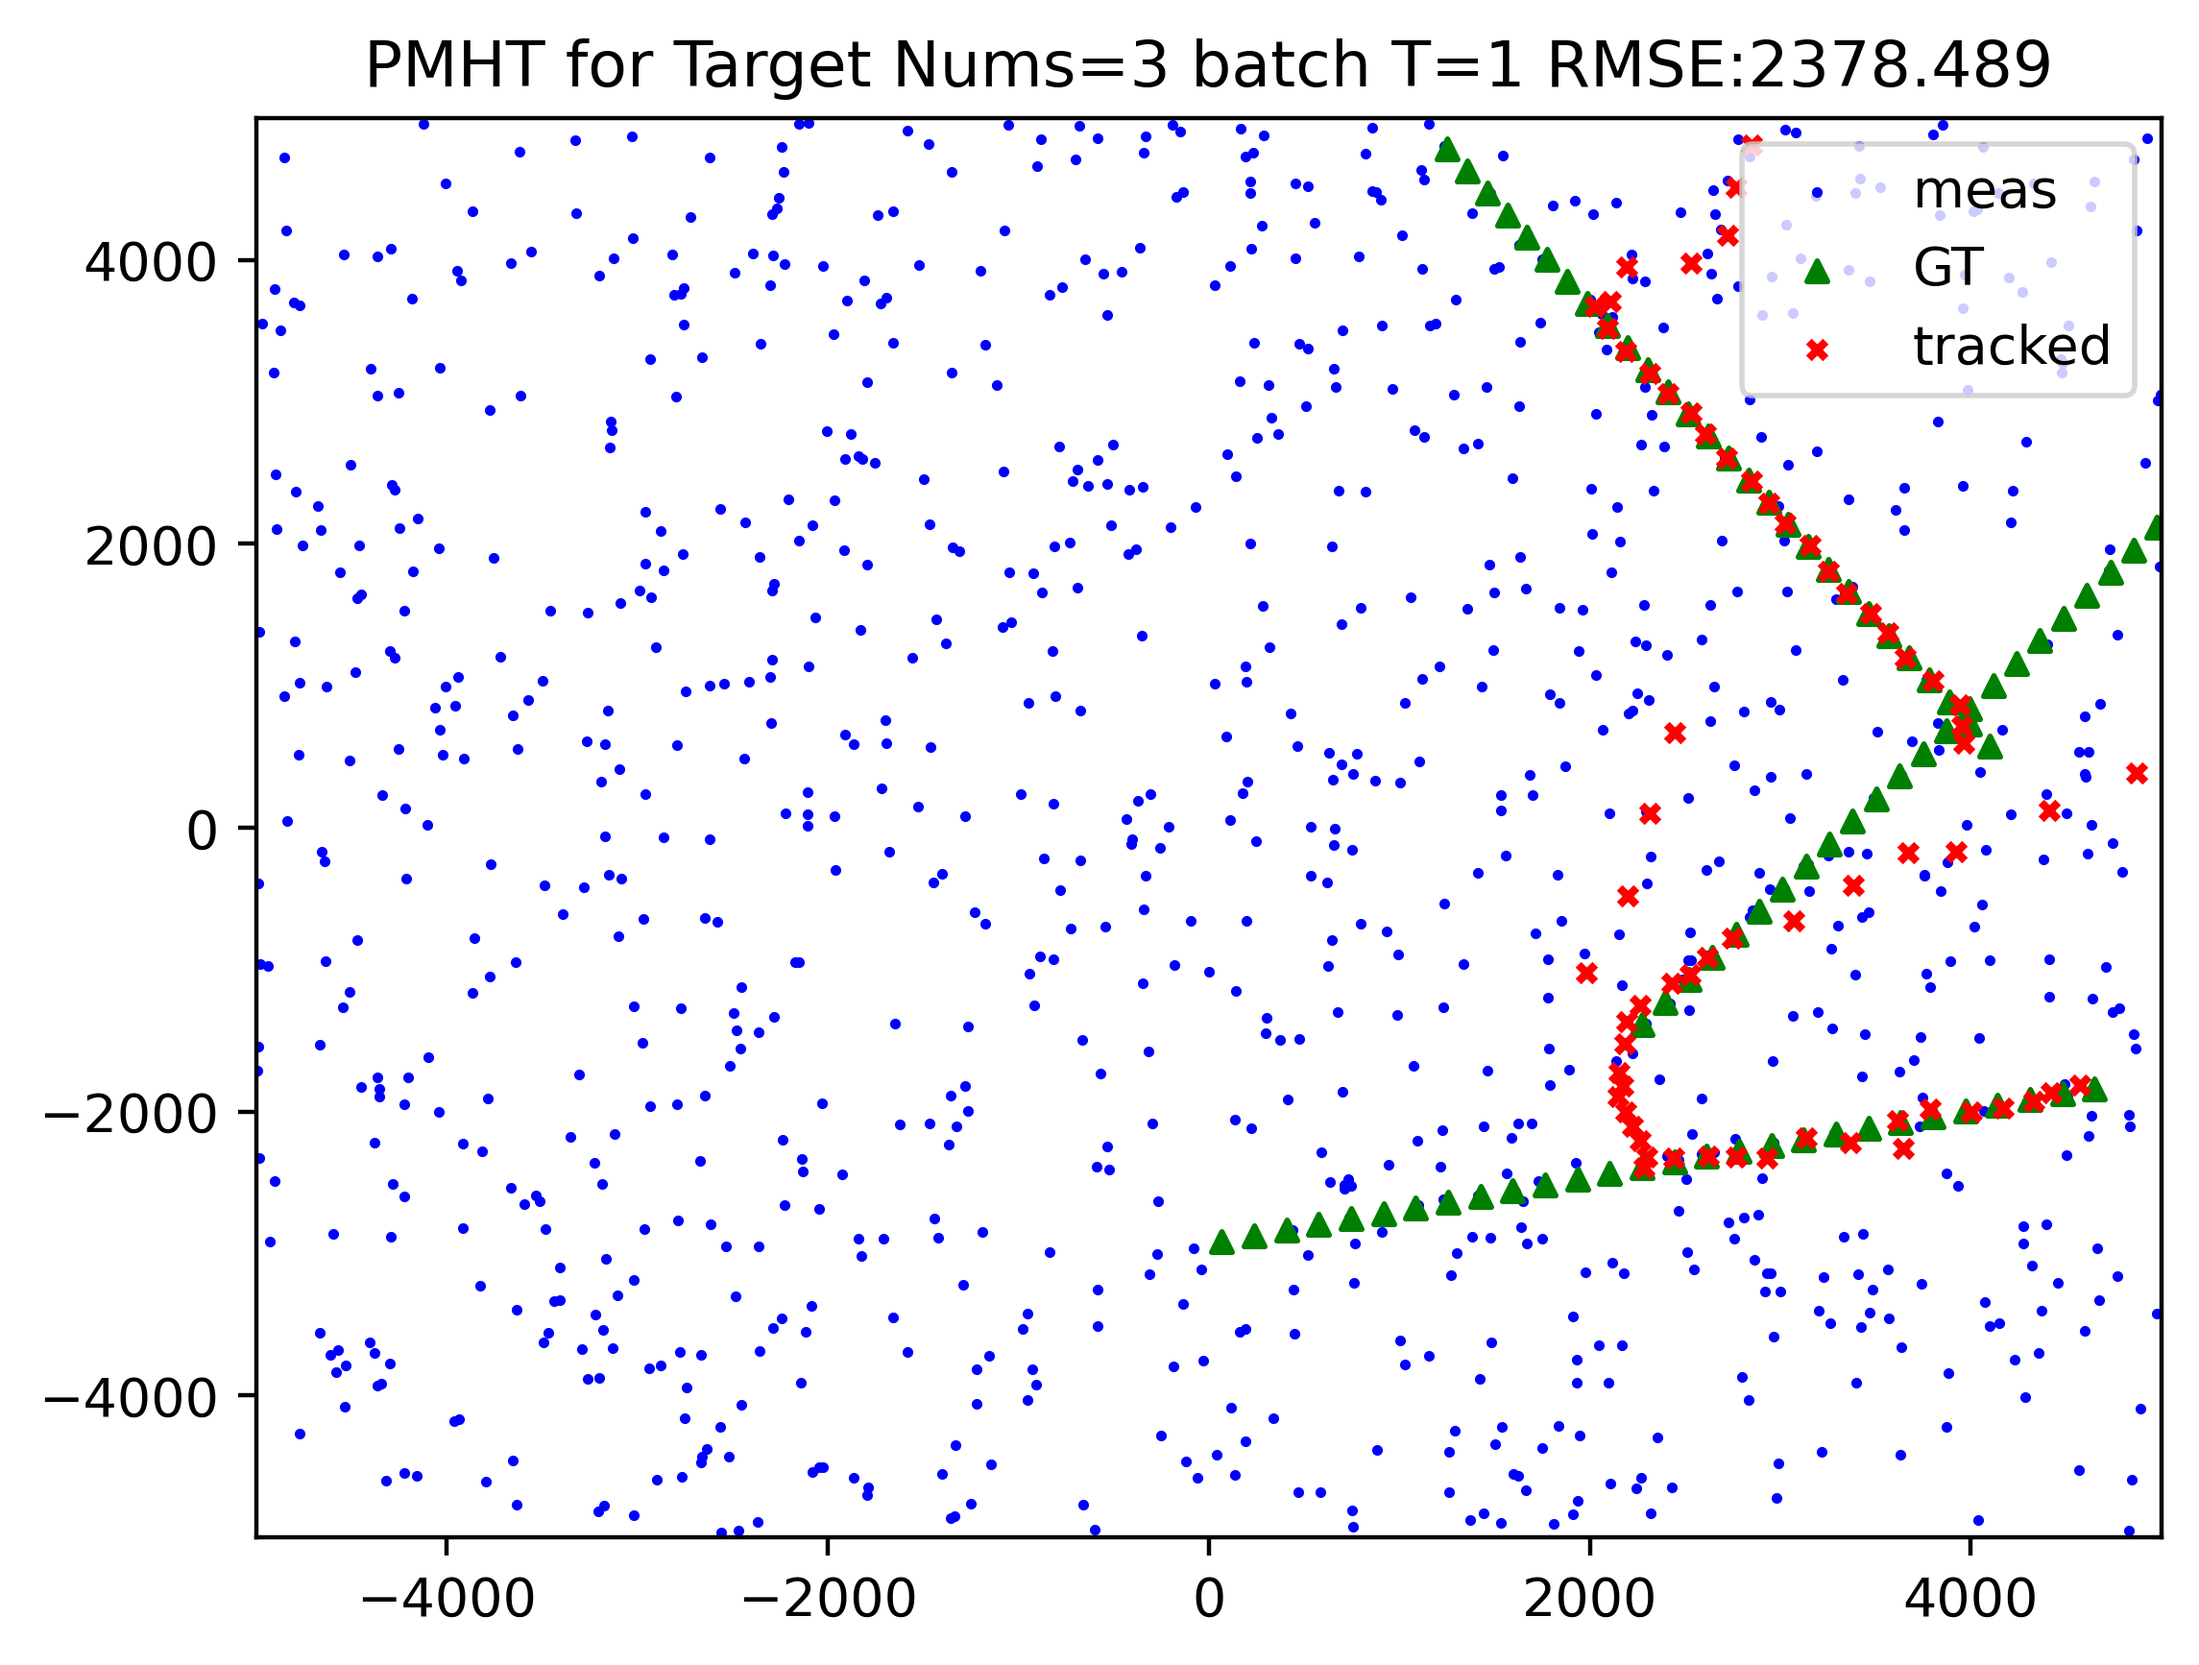
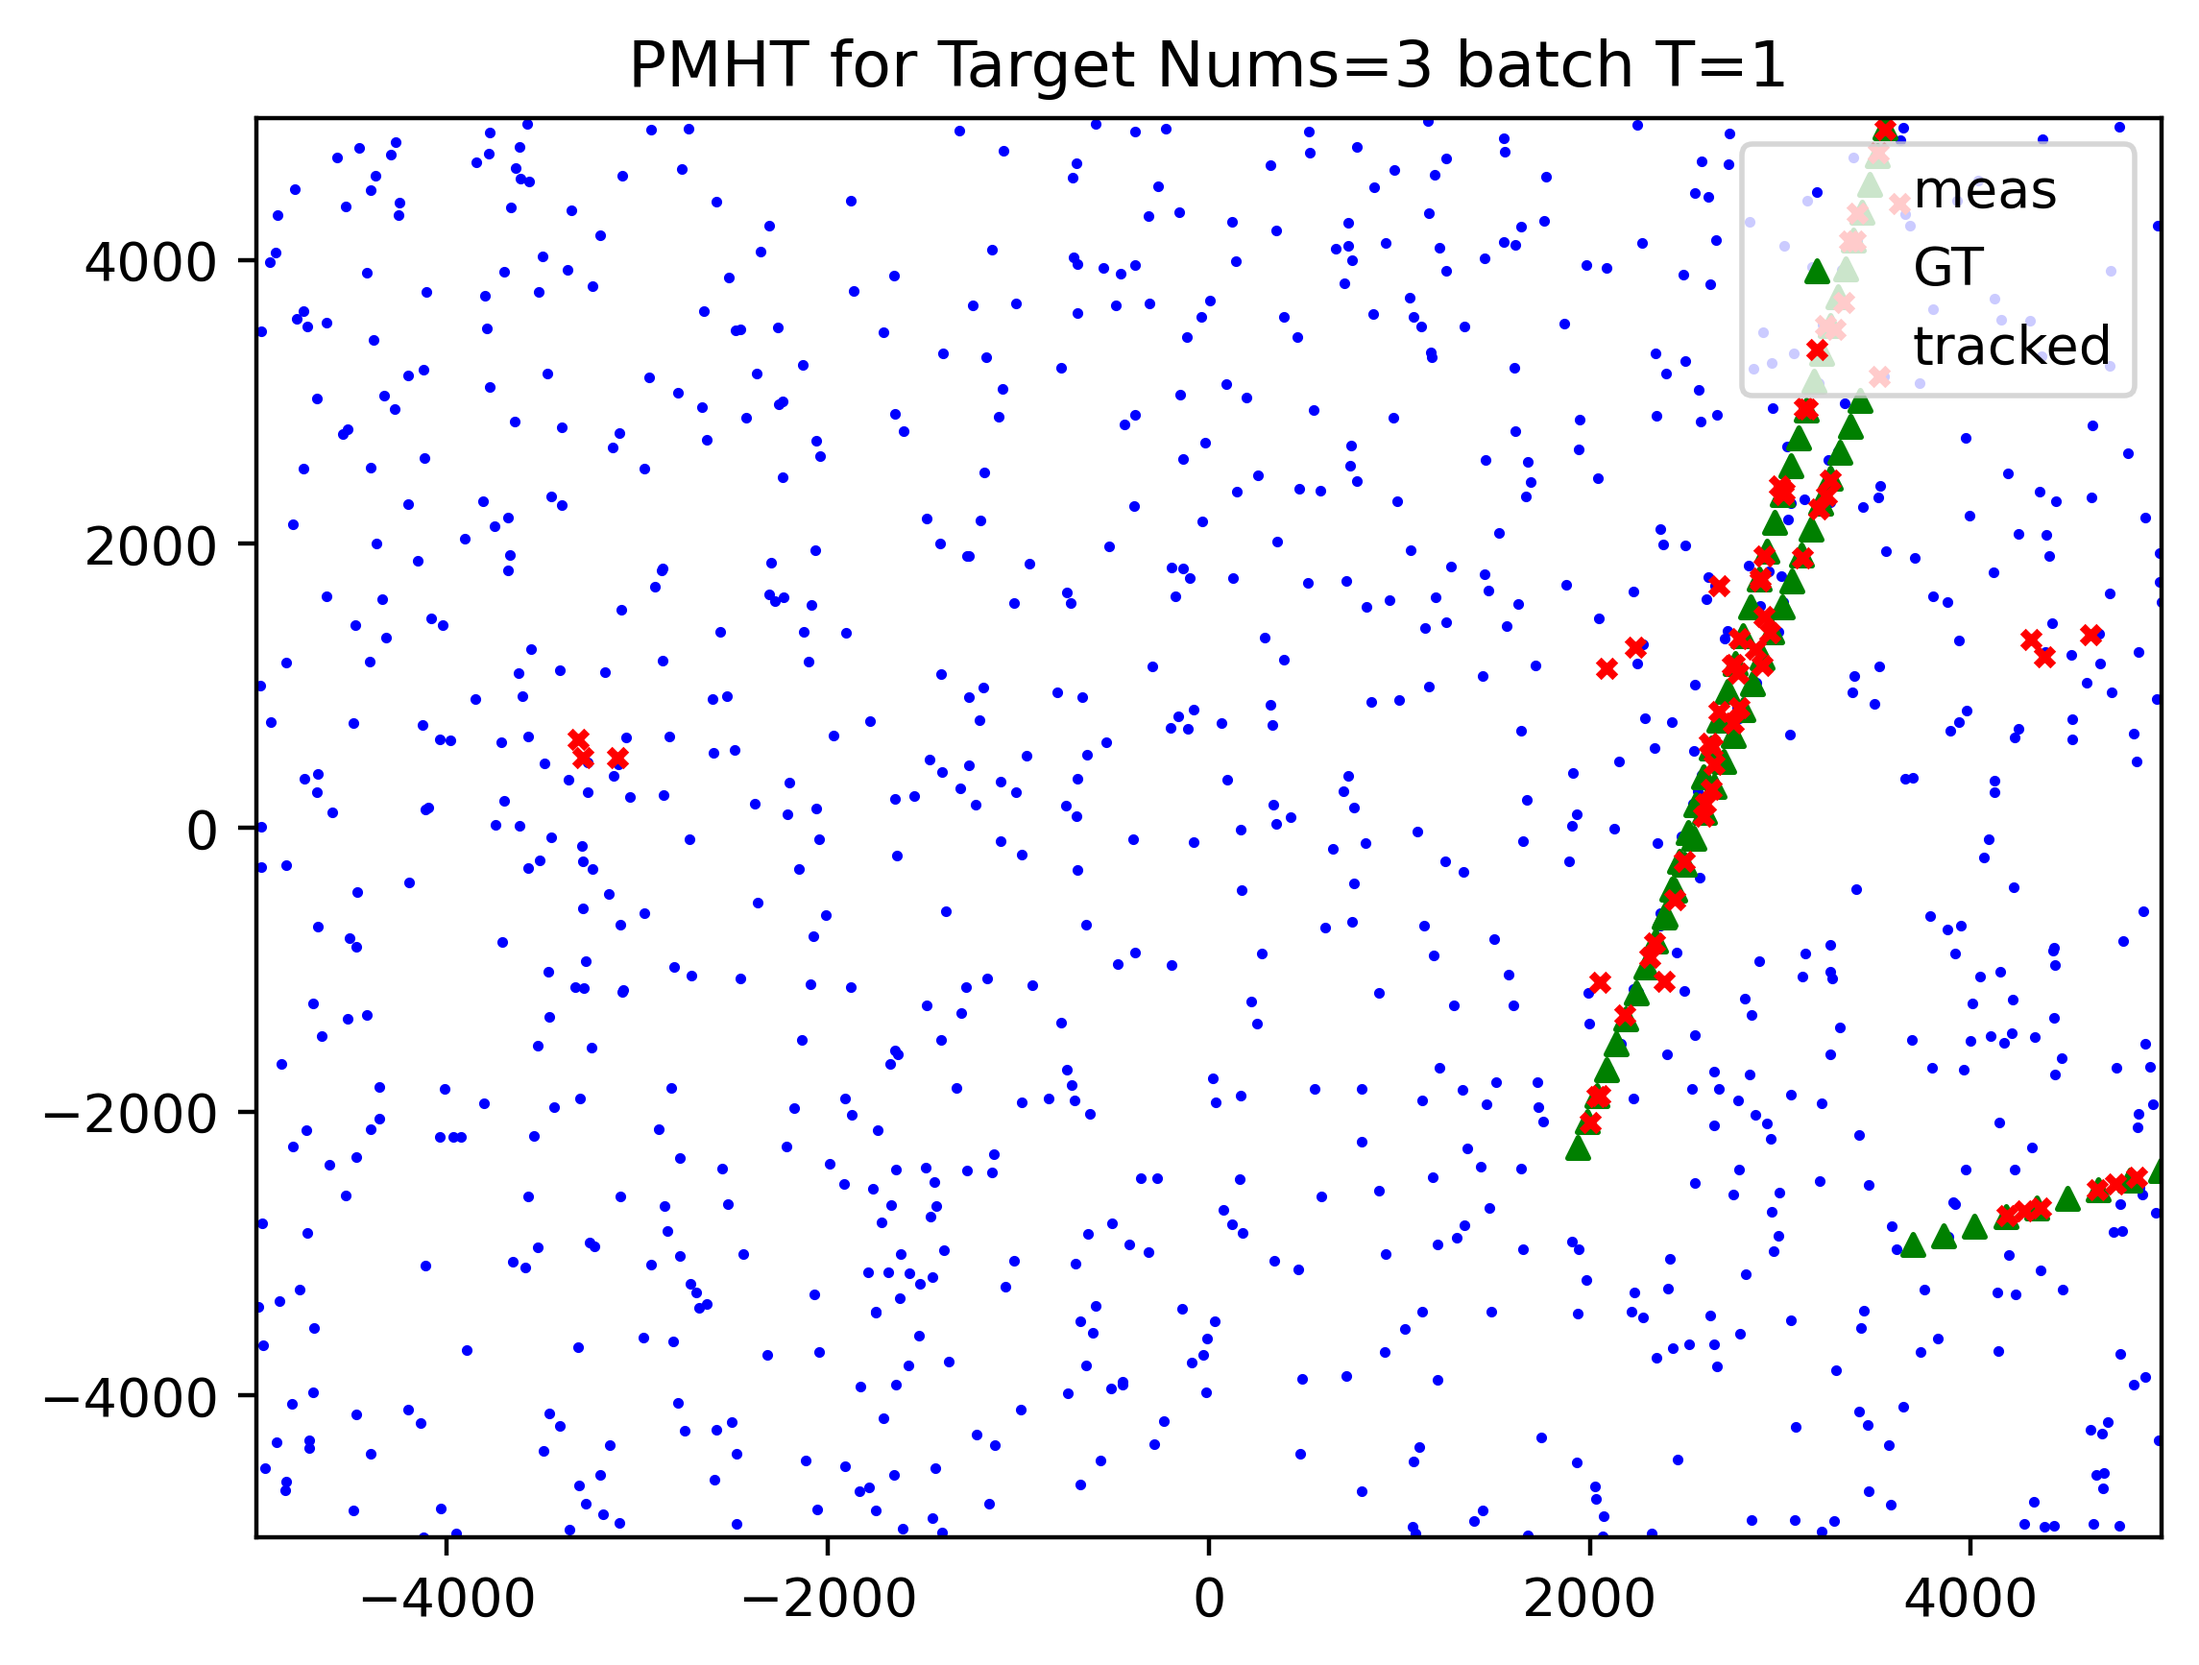
fix some bug

diff --git a/pmht/pmht.py b/pmht/pmht.py
@@ -52,55 +52,55 @@ class PMHT:
                 self.t_buff.pop(0)
         self.meas_buff.append(meas)
         self.t_buff.append(t_idx)
+        print(f"update meas: {len(self.meas_buff)}")
         
         return len(self.meas_buff) >= self.batch_Tb
     
-    def pmht_init(self, target_prior):
+    def pmht_init(self, t_id, target_prior):
         print("PMHT target init!")
         
-        xs = np.zeros((target_prior.shape[0], 4, 1), dtype=np.float)
-        Ps = np.zeros((target_prior.shape[0], 4, 4), dtype=np.float)
+        xs = np.zeros((len(target_prior), 4, 1), dtype=np.float)
+        Ps = np.zeros((len(target_prior), 4, 4), dtype=np.float)
         
         for index, per_tgt_prior in enumerate(target_prior):
-            xs[index, 0, 0] = per_tgt_prior[0] + np.random.normal(0, 100, 1)
-            xs[index, 1, 0] = per_tgt_prior[1] + np.random.normal(0, 5, 1)
-            xs[index, 2, 0] = per_tgt_prior[3] + np.random.normal(0, 100, 1)
-            xs[index, 3, 0] = per_tgt_prior[4] + np.random.normal(0, 5, 1)
-        self.target_state[0] = xs
-        self.P[0] = Ps
+            xs[index, 0, 0] = per_tgt_prior.state[0]
+            xs[index, 1, 0] = per_tgt_prior.state[1]
+            xs[index, 2, 0] = per_tgt_prior.state[2]
+            xs[index, 3, 0] = per_tgt_prior.state[3]
+        self.target_state[t_id] = xs
+        self.P[t_id] = Ps
         
-        for t_idx in range(1, self.batch_Tg):
-            xs = np.zeros((target_prior.shape[0], 4, 1), dtype=np.float)
-            Ps = np.zeros((target_prior.shape[0], 4, 4), dtype=np.float)    
+        # for t_idx in range(1, self.batch_Tg):
+        #     xs = np.zeros((target_prior.shape[0], 4, 1), dtype=np.float)
+        #     Ps = np.zeros((target_prior.shape[0], 4, 4), dtype=np.float)    
             
-            for idx in range(len(xs)):
-                x = self.target_state[t_idx-1][idx]
-                P = self.P[t_idx-1][idx]
+        #     for idx in range(len(xs)):
+        #         x = self.target_state[t_idx-1][idx]
+        #         P = self.P[t_idx-1][idx]
 
-                x, P = state_predict(x, P, self.Q, self.delta_t)
+        #         x, P = state_predict(x, P, self.Q, self.delta_t)
                 
-                xs[idx] = x
-                Ps[idx] = P
+        #         xs[idx] = x
+        #         Ps[idx] = P
 
-            self.target_state[t_idx] = xs
-            self.P[t_idx] = Ps
-        self.pmht_init_flag = False
+        #     self.target_state[t_idx] = xs
+        #     self.P[t_idx] = Ps
+        # self.pmht_init_flag = False
         
     def run(self, t_idx, measurements):
         print(f"\nRuning PMHT T:{t_idx}")
         self.mot_track.run_track(t_idx, measurements)
         
-        meas_flag = False
-        if not self.pmht_run_flag:
-            self.targets_list = self.mot_track.get_targets(t_idx)
-            if len(self.targets_list):
+        meas_flag = self.meas_manage(t_idx, measurements)
+        self.targets_list = self.mot_track.get_targets(t_idx+1-self.batch_Tg)
+        
+        if len(self.targets_list):
+            self.pmht_init(t_idx-self.batch_Tg, self.targets_list)
+            if meas_flag:
                 self.pmht_run_flag = True
 
-        elif self.pmht_run_flag:
-            meas_flag = self.meas_manage(t_idx, measurements)
-
         print(f"flag pmht run {self.pmht_run_flag} meas flag {meas_flag}")
-        if meas_flag:        
+        if meas_flag and self.pmht_run_flag:        
             self.em_iteration_times = 0
             targets_ids = self.em_iteration(self.targets_list)
             self.update_targets(targets_ids)

diff --git a/run_pmht.py b/run_pmht.py
@@ -19,7 +19,7 @@ args = parser.parse_args()
 
 def main(cfg, LOG):
     
-    PMHT_batch_T = 1
+    PMHT_batch_T = 3
 
     sim_gen = SimulationGenerator(cfg=cfg)
     
@@ -30,57 +30,19 @@ def main(cfg, LOG):
     LOG.info(f"total times {len(total_data)}")
 
     pmht_mananger1 = PMHT(times=len(total_data),
-                         batch_T=1, 
+                         batch_T=PMHT_batch_T, 
                          noise_expected=noise_expected,
                          sample_T=cfg.RADAR.period,
                          meas_sigma=cfg.TARGET.meas_sigma)
-
-    # mot_track = MOT(times=len(total_data), 
-    #                 delta_t=cfg.RADAR.period, keep_T=3,
-    #                 meas_sigma=cfg.TARGET.meas_sigma)
     
     for t_id, data in enumerate(total_data):
-        # mot_track.run_track(t_id, data)
         pmht_mananger1.run(t_id, data)
-    # pmht_mananger1.pmht_init(target_state[0])
-    # for t_idx in range(1, len(total_data)):
-    #     pmht_mananger1.run(t_idx, total_data[t_idx])
     
-    # track_info1 = pmht_mananger1.get_track_info()
+    track_info1 = pmht_mananger1.get_track_info()
 
-    # draw1 = DrawSimTarget(cfg=cfg)
-    # draw1.run_pmht(total_data, target_state, track_info1, 
-    #                f'Target Nums={cfg.TARGET.nums} batch T=1')
-
-    # mot_track = MOT(times=len(total_data), 
-    #                 delta_t=cfg.RADAR.period, keep_T=3,
-    #                 meas_sigma=cfg.TARGET.meas_sigma)
-    
-    # for t_id, data in enumerate(total_data):
-    #     mot_track.run_track(t_id, data)
-
-    #     # if t_id >= 3:
-    #     #     raise SystemExit
-    
-    # mot_track.statistics()
-
-    raise SystemExit
-
-    pmht_mananger2 = PMHT(times=len(total_data),
-                         batch_T=3, 
-                         noise_expected=noise_expected,
-                         sample_T=cfg.RADAR.period,
-                         meas_sigma=cfg.TARGET.meas_sigma)
-
-    pmht_mananger2.pmht_init(target_state[0])
-    for t_idx in range(3, len(total_data)):
-        pmht_mananger2.run(t_idx, total_data[t_idx])
-    
-    track_info2 = pmht_mananger2.get_track_info()
-
-    draw2 = DrawSimTarget(cfg=cfg)
-    draw2.run_pmht(total_data, target_state, track_info2, 
-                   f'Target Nums={cfg.TARGET.nums} batch T=3')
+    draw1 = DrawSimTarget(cfg=cfg)
+    draw1.run_pmht(total_data, target_state, track_info1, 
+                   f'Target Nums={cfg.TARGET.nums} batch T=1')
     
         
 

diff --git a/visualizer/simulate_data_vis.py b/visualizer/simulate_data_vis.py
@@ -19,7 +19,7 @@ class DrawSimTarget:
         # self.sim_gen = SimulationGenerator(cfg=gen_cfg)
 
     def run(self):
-        # target_state, noises, total_data = self.sim_gen.total_data_vis_obtain()
+        target_state, noises, total_data = self.sim_gen.total_data_vis_obtain()
 
         self.total_vis_2d(total_data)
     
@@ -33,23 +33,30 @@ class DrawSimTarget:
 
         total_raw = np.concatenate(total_raw, axis=0)
         gt = np.concatenate(gt, axis=0)
-        track = np.concatenate(track, axis=0)
+
+        new_track = []
+        for i, x in enumerate(track):
+            if x is not None:
+                new_track.append(x)
+
+        new_track = np.concatenate(new_track, axis=0)
 
         if total_raw is not None:
             ax.scatter(x=total_raw[:, 0, :], y=total_raw[:, 1, :],
                        c='blue', marker='o', s=1, label='meas')
 
         if gt is not None:
-            gt = gt[:len(track)]            
+            # gt = gt[:len(track)]            
             ax.scatter(x=gt[:, 0, :], y=gt[:, 3, :], 
                        c='green', marker='^', s=15, label='GT')
         
         if track is not None:
-            ax.scatter(x=track[:, 0, :], y=track[:, 2, :], 
+            ax.scatter(x=new_track[:, 0, :], y=new_track[:, 2, :], 
                        c='red', marker='x', s=10, label='tracked')
         
-        pos_rmse = np.sqrt(np.mean((gt[:, 0, :] - track[:, 0, :])**2 + (gt[:, 3, :] - track[:, 2, :])**2))
-        str = f'PMHT for {txt} RMSE:{pos_rmse:.3f}'
+        # pos_rmse = np.sqrt(np.mean((gt[:, 0, :] - track[:, 0, :])**2 + (gt[:, 3, :] - track[:, 2, :])**2))
+        # str = f'PMHT for {txt} RMSE:{pos_rmse:.3f}'
+        str = f'PMHT for {txt}'
         plt.title(str)
         plt.legend(loc='upper right')
         # plt.show()

diff --git a/pmht/track.py b/pmht/track.py
@@ -58,7 +58,7 @@ class Target:
             self.vanish = 1
             self.tracked = 0
             self.candidate = 0
-        elif self.keep_times>=3 and self.occur_times<=5:
+        elif self.keep_times>=3:
             self.tracked = 1
             self.keep_times = 0
             self.occur_times = 0
